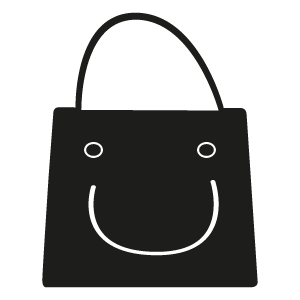
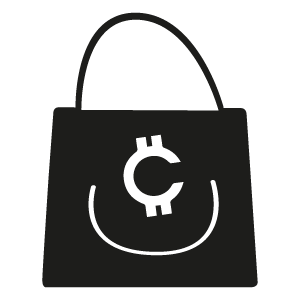
End Services

Changed region(s): [[0.39, 0.45, 0.63, 0.72], [0.27, 0.45, 0.36, 0.54], [0.66, 0.45, 0.72, 0.54]]

diff --git a/Client/src/components/Sections/Services/Services.jsx b/Client/src/components/Sections/Services/Services.jsx
@@ -1,7 +1,8 @@
 import React from "react";
 import './services.css'
-import bitcoin from '../../../assets/img/bit.png'
-import wallet from '../../../assets/img/wallet.png'
+import compraCryp from '../../../assets/img/compra.png'
+import criptomonedas from '../../../assets/img/cryptocurrency.png'
+import retiro from '../../../assets/img/retiro.png'
 
 function Services() {
   return (
@@ -12,13 +13,12 @@ function Services() {
         <div className="col-12 col-md-4 d-flex justify-content-center">
           <div class="card-contain">
             <div class="card-image">
-              <img src={bitcoin} alt="bitcoin" width="100"/>
+              <img src={criptomonedas} alt="criptomonedas" width="75"/>
             </div>
             <div class="card-info">
-              <p class="text-title">Autor</p>
+              <p class="text-title">Analiza el mercado</p>
               <p class="text-body">
-                Lorem ipsum dolor sit amet consectetur adipisicing elit.
-                Corrupti repellat, consequuntur doloribus voluptate esse iure?
+              Conoce las principales criptos, como funcionan y que mueve el mercado.
               </p>
             </div>
           </div>
@@ -26,25 +26,25 @@ function Services() {
         <div className="col-12 col-md-4 d-flex justify-content-center">
           <div class="card-contain">
             <div class="card-image">
-              <img src={wallet} alt="bitcoin" className="figure-img" width="65"/>
+            <img src={compraCryp} alt="compraCryp" width="75"/>
             </div>
             <div class="card-info">
-              <p class="text-title">Autor</p>
+              <p class="text-title">Comprar</p>
               <p class="text-body">
-                Lorem ipsum dolor sit amet consectetur adipisicing elit.
-                Corrupti repellat, consequuntur doloribus voluptate esse iure?
+                Acceder a Bitcoin, Etherum, Litecion y otros activos digitales en pocos pasos.
               </p>
             </div>
           </div>
         </div>
         <div className="col-12 col-md-4 d-flex justify-content-center">
           <div class="card-contain">
-            <div class="card-image"></div>
+          <div class="card-image">
+              <img src={retiro} alt="bitcoin" className="figure-img" width="65"/>
+            </div>
             <div class="card-info">
-              <p class="text-title">Autor</p>
+              <p class="text-title">Vender</p>
               <p class="text-body">
-                Lorem ipsum dolor sit amet consectetur adipisicing elit.
-                Corrupti repellat, consequuntur doloribus voluptate esse iure?
+                Transforma tus criptos en otras divisas y/o dolares de manera rapida y segura.
               </p>
             </div>
           </div>
